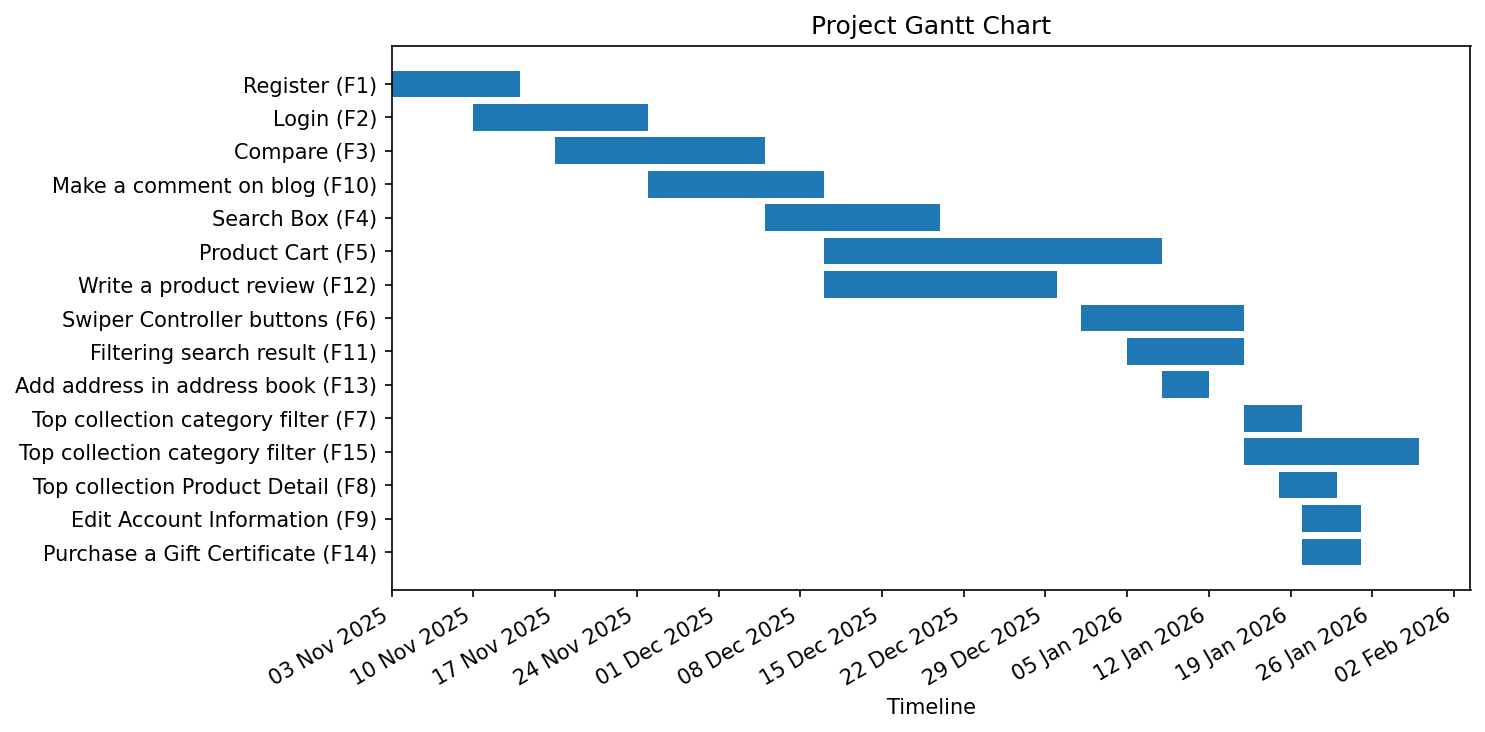
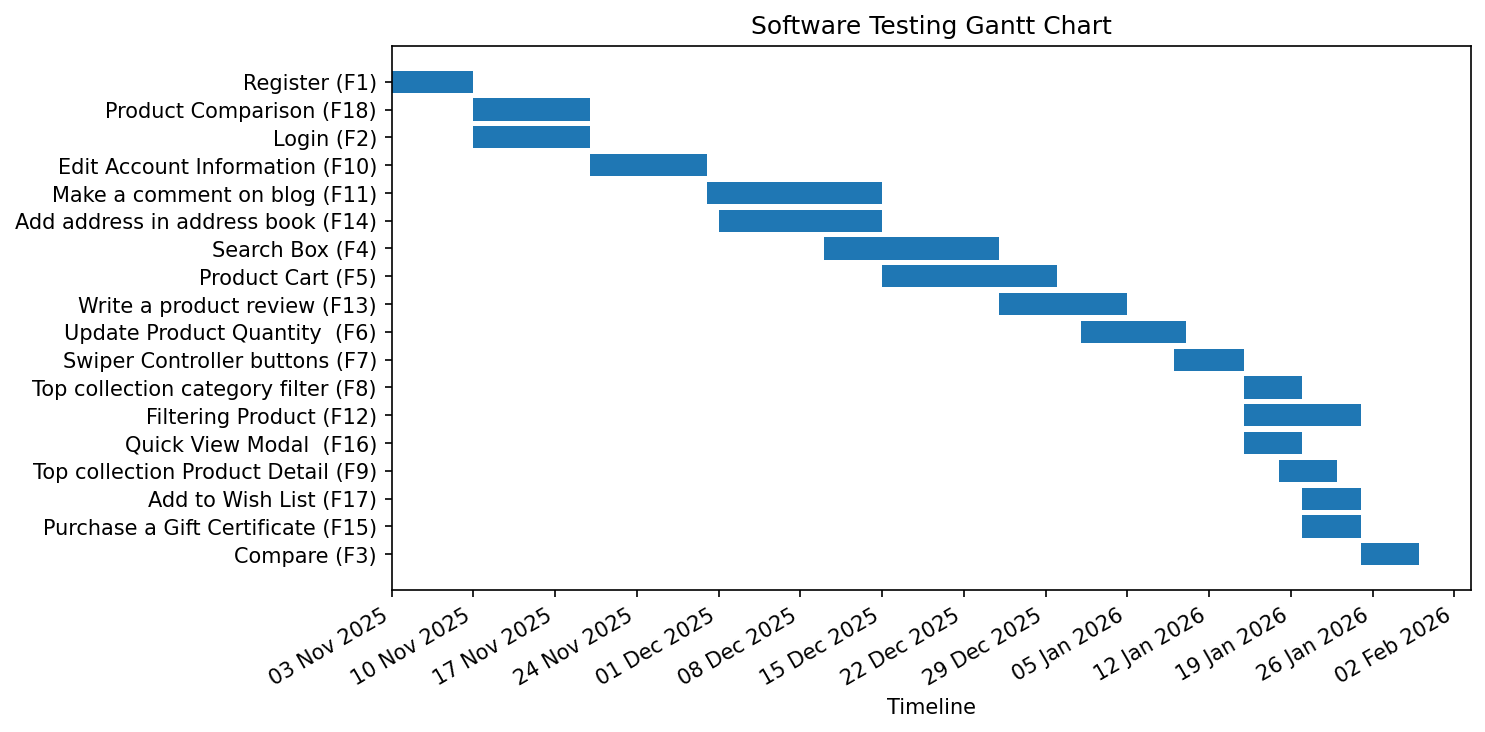
EST_ASG3_Updated_GanttChart

Changed region(s): [[0.0, 0.0902, 0.9603, 0.7814], [0.4956, 0.0, 0.7434, 0.0601]]

diff --git a/ganttchart.py b/ganttchart.py
@@ -12,21 +12,26 @@ if os.path.exists(csv_path):
     df = pd.read_csv(csv_path)
 else:
     df = pd.DataFrame([
-        {"Task": "Register (F1)",                                           "Start": "2025-11-03", "End": "2025-11-14"},
-        {"Task": "Login (F2)",                                              "Start": "2025-11-10", "End": "2025-11-25"},
-        {"Task": "Compare (F3)",                                            "Start": "2025-11-17", "End": "2025-12-05"},
-        {"Task": "Search Box (F4)",                                         "Start": "2025-12-05", "End": "2025-12-20"},
-        {"Task": "Product Cart (F5)",                                       "Start": "2025-12-10", "End": "2026-01-08"},
-        {"Task": "Swiper Controller buttons (F6)",                          "Start": "2026-01-01", "End": "2026-01-15"},
-        {"Task": "Top collection category filter (F7)",                     "Start": "2026-01-15", "End": "2026-01-20"},
-        {"Task": "Top collection Product Detail (F8)",                      "Start": "2026-01-18", "End": "2026-01-23"},
-        {"Task": "Edit Account Information (F9)",                           "Start": "2026-01-20", "End": "2026-01-25"},
-        {"Task": "Make a comment on blog (F10)",                            "Start": "2025-11-25", "End": "2025-12-10"},
-        {"Task": "Filtering search result (F11)",                           "Start": "2026-01-05", "End": "2026-01-15"},
-        {"Task": "Write a product review (F12)",                            "Start": "2025-12-10", "End": "2025-12-30"},
-        {"Task": "Add address in address book (F13)",                       "Start": "2026-01-08", "End": "2026-01-12"},
-        {"Task": "Purchase a Gift Certificate (F14)",                       "Start": "2026-01-20", "End": "2026-01-25"},
-        {"Task": "Top collection category filter (F15)",                    "Start": "2026-01-15", "End": "2026-01-30"},
+
+        #fix all of these
+        {"Task": "Register (F1)",                                           "Start": "2025-11-03", "End": "2025-11-10"},
+        {"Task": "Login (F2)",                                              "Start": "2025-11-10", "End": "2025-11-20"},
+        {"Task": "Compare (F3)",                                            "Start": "2026-01-25", "End": "2026-01-30"},
+        {"Task": "Search Box (F4)",                                         "Start": "2025-12-10", "End": "2025-12-25"},
+        {"Task": "Product Cart (F5)",                                       "Start": "2025-12-15", "End": "2025-12-30"},
+        {"Task": "Update Product Quantity  (F6)",                                       "Start": "2026-01-01", "End": "2026-01-10"},
+        {"Task": "Swiper Controller buttons (F7)",                          "Start": "2026-01-9", "End": "2026-01-15"},
+        {"Task": "Top collection category filter (F8)",                     "Start": "2026-01-15", "End": "2026-01-20"},
+        {"Task": "Top collection Product Detail (F9)",                      "Start": "2026-01-18", "End": "2026-01-23"},
+        {"Task": "Edit Account Information (F10)",                           "Start": "2025-11-20", "End": "2025-11-30"},
+        {"Task": "Make a comment on blog (F11)",                            "Start": "2025-11-30", "End": "2025-12-15"},
+        {"Task": "Filtering Product (F12)",                           "Start": "2026-01-15", "End": "2026-01-25"},
+        {"Task": "Write a product review (F13)",                            "Start": "2025-12-25", "End": "2026-01-05"},
+        {"Task": "Add address in address book (F14)",                       "Start": "2025-12-01", "End": "2025-12-15"},
+        {"Task": "Purchase a Gift Certificate (F15)",                       "Start": "2026-01-20", "End": "2026-01-25"},
+        {"Task": "Quick View Modal  (F16)",                    "Start": "2026-01-15", "End": "2026-01-20"},
+        {"Task": "Add to Wish List (F17)",                    "Start": "2026-01-20", "End": "2026-01-25"},
+        {"Task": "Product Comparison (F18)",                    "Start": "2025-11-10", "End": "2025-11-20"},
     ])
 
 # 2) Prep data ---------------------------------------------------------------
@@ -51,7 +56,7 @@ ax.xaxis.set_major_formatter(mdates.DateFormatter("%d %b %Y"))
 fig.autofmt_xdate()
 
 ax.set_xlabel("Timeline")
-ax.set_title("Project Gantt Chart")
+ax.set_title("Software Testing Gantt Chart")
 plt.tight_layout()
 
 #save pic as png
